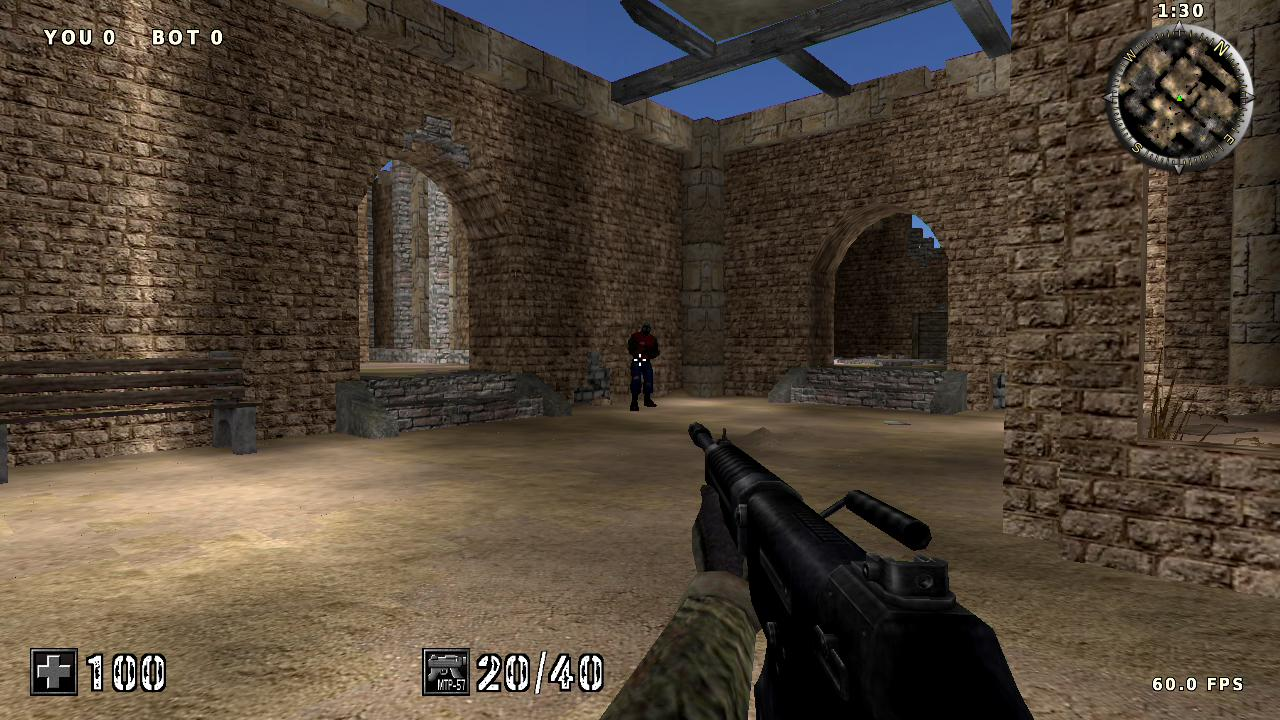
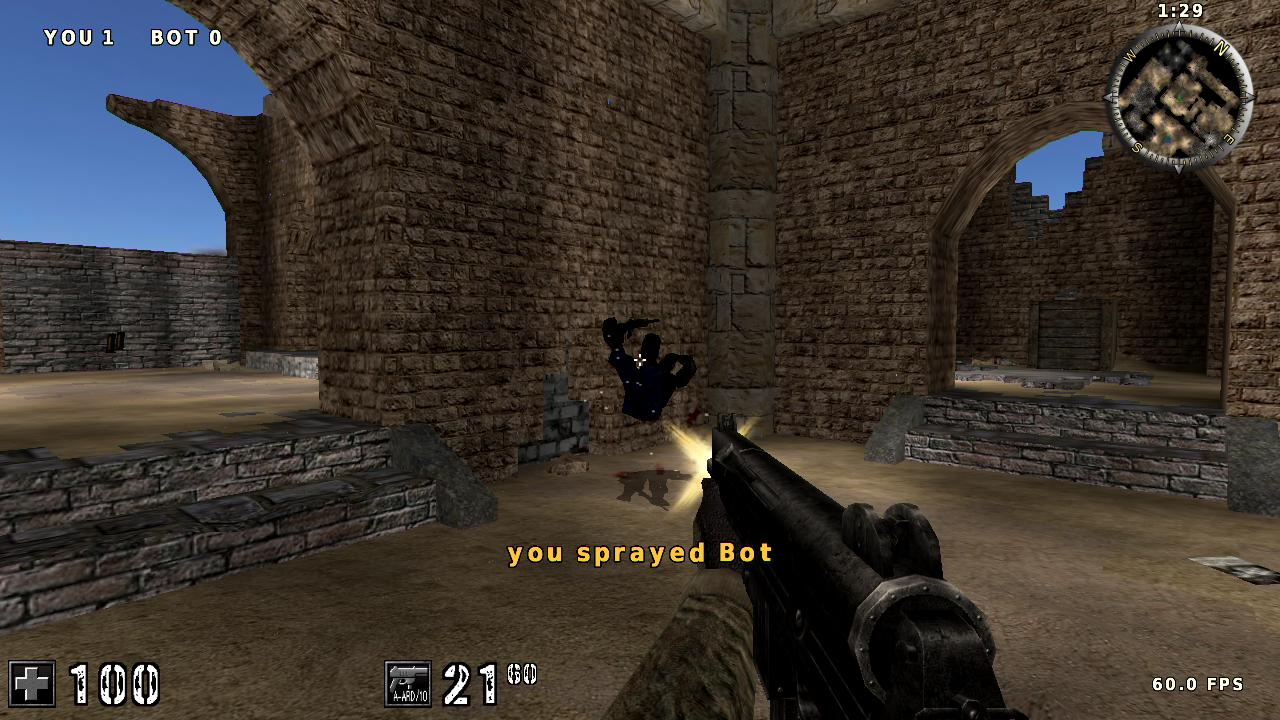
Show the SMG opening frag on the physical Xbox

diff --git a/xbox/README.md b/xbox/README.md
@@ -21,6 +21,8 @@ The easy bot backs away when you close inside its preferred rifle range. It look
 
 Controllers can be plugged in or replaced while the game is running. Any of the four ports can control the duel. The title and result screens show the number of connected controllers.
 
+The first-person rifle and SMG use their original 1024x512 textures. The pistol, knife and hands use 512x512 textures. Each has a 256-color palette and offline mipmaps.
+
 The HUD shows frags, time remaining, health, and armour. The large ammo count is the magazine and the smaller count is the reserve, as on PC. The crosshair disappears during a reload. Walk over the map's ammo, health, helmet, and armour pickups to collect them. The bot also collects pickups. When low on ammunition, it seeks a reachable supply and switches back to the rifle after restocking.
 
 The radar and overhead map show the well water and map models, including barrels and crates. The player marker pulses briefly when you fire, reload, or switch weapons.

diff --git a/README.md b/README.md
@@ -6,6 +6,6 @@ Press Y before a match to choose the MTP-57 rifle or A-ARD/10 SMG. Both primarie
 
 On an original Xbox at 720p, a 720-frame capture of the opening frag reached every refresh. Other combat captures occasionally missed a refresh.
 
-![Facing the bot with the MTP-57 in the ac_desert courtyard on an original Xbox](xbox/ac-desert-xbox.jpg)
+![An opening SMG frag on ac_desert, captured from an original Xbox at 720p](xbox/ac-desert-xbox.jpg)
 
 [Build instructions and controls](xbox/README.md) · [Upstream AssaultCube](https://github.com/assaultcube/AC) · [License](https://assault.cubers.net/docs/license.html)
